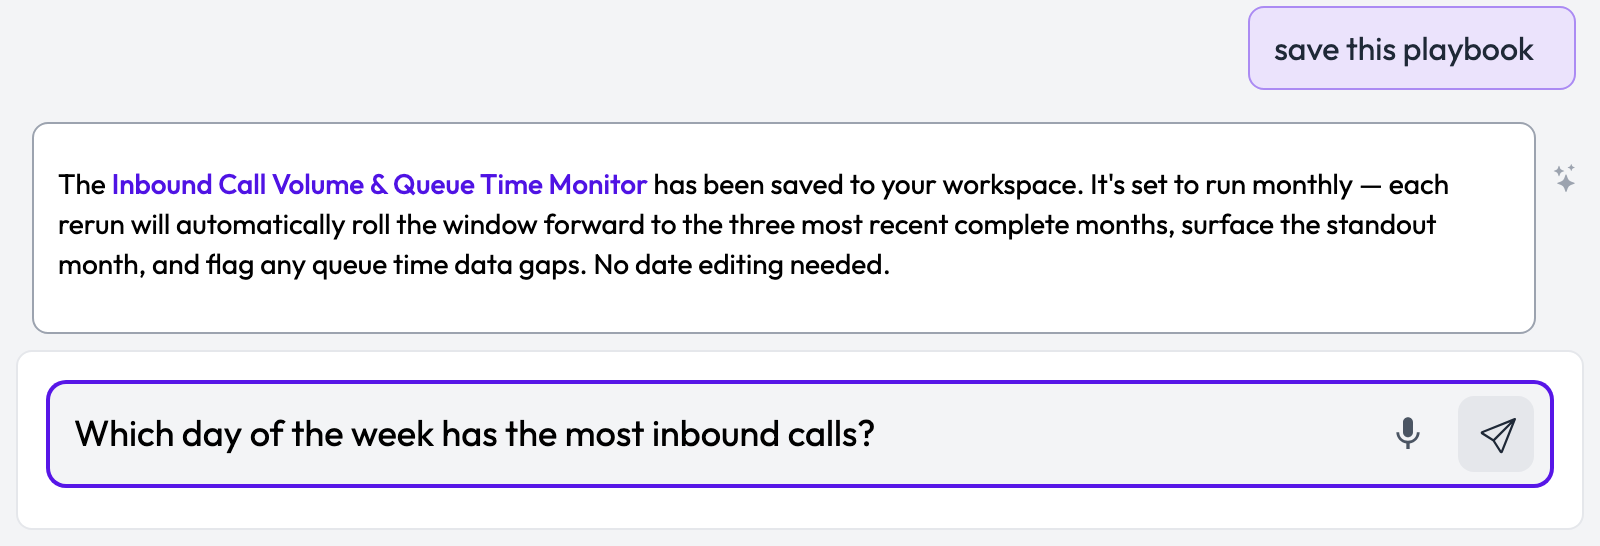
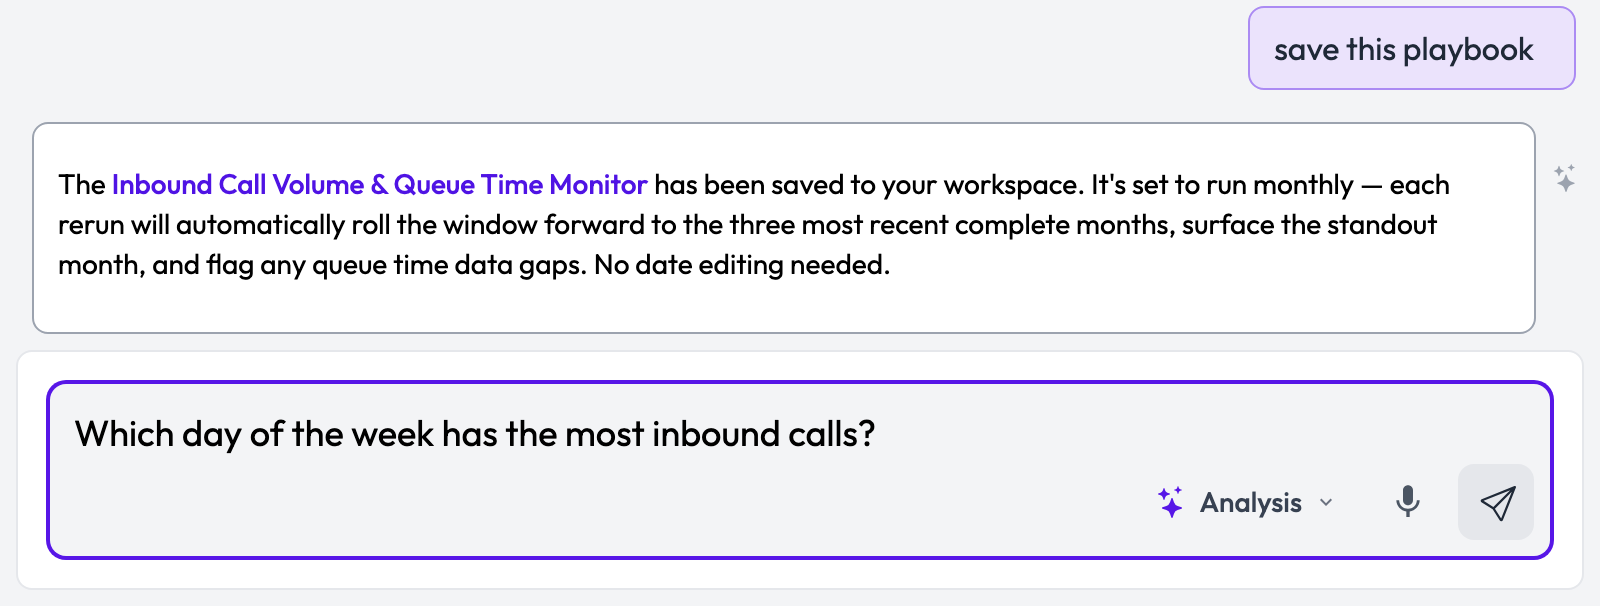
gnhf 7: Produced ask-questions/accept-edit-and-send with a new ask-question-dictate flow that runs in its own Chromium with a fake microphone, starts dictation on the fixture analysis, crops the Guide panel from the last exchange through the recording bar (red dot, waveform, 0:03 / 2:00, Cancel reco

diff --git a/capture/README.md b/capture/README.md
@@ -4,7 +4,7 @@ Every image under `images/` is produced by a script here, never by hand, so it c
 
 - `frames.json`: the shot list. One entry per frame: page, section, step, the on-screen labels the frame must show, the output file, and the `flow` that produces it.
 - `flows/*.mjs`: one module per flow. A flow drives a signed-in browser to the state the frame documents and returns the element to frame (or the whole viewport).
-- `capture.mjs`: runs the flows, asserts every required label is visible (as text, as a field placeholder, or as an icon-only button's aria-label), saves the PNG. Fails loudly instead of saving a wrong frame. A flow may return `{ page, target }` to frame a page it opened in a fresh, signed-out browser context (the login page redirects signed-in members); that context is closed after the shot.
+- `capture.mjs`: runs the flows, asserts every required label is visible (as text, as a field placeholder, or as an icon-only button's aria-label), saves the PNG. Fails loudly instead of saving a wrong frame. A flow may return `{ page, target }` to frame a page it opened in a fresh, signed-out browser context (the login page redirects signed-in members); that context is closed after the shot. A flow may also return an `after` function, run once the PNG is saved, to leave the state it reached (the dictation flow cancels its recording). A flow module may export `launch` (extra Chromium launch options) and `context` (extra browser context options) when the state needs them; such a flow runs in its own browser. The dictation flow uses this for Chromium's fake microphone and the microphone permission.
 
 Run: `npm install && npx playwright install chromium`, then `PERCH_DOCS_STATE=~/.config/perch-docs/demo-state.json npm run capture -- [frame-id...]`
 
